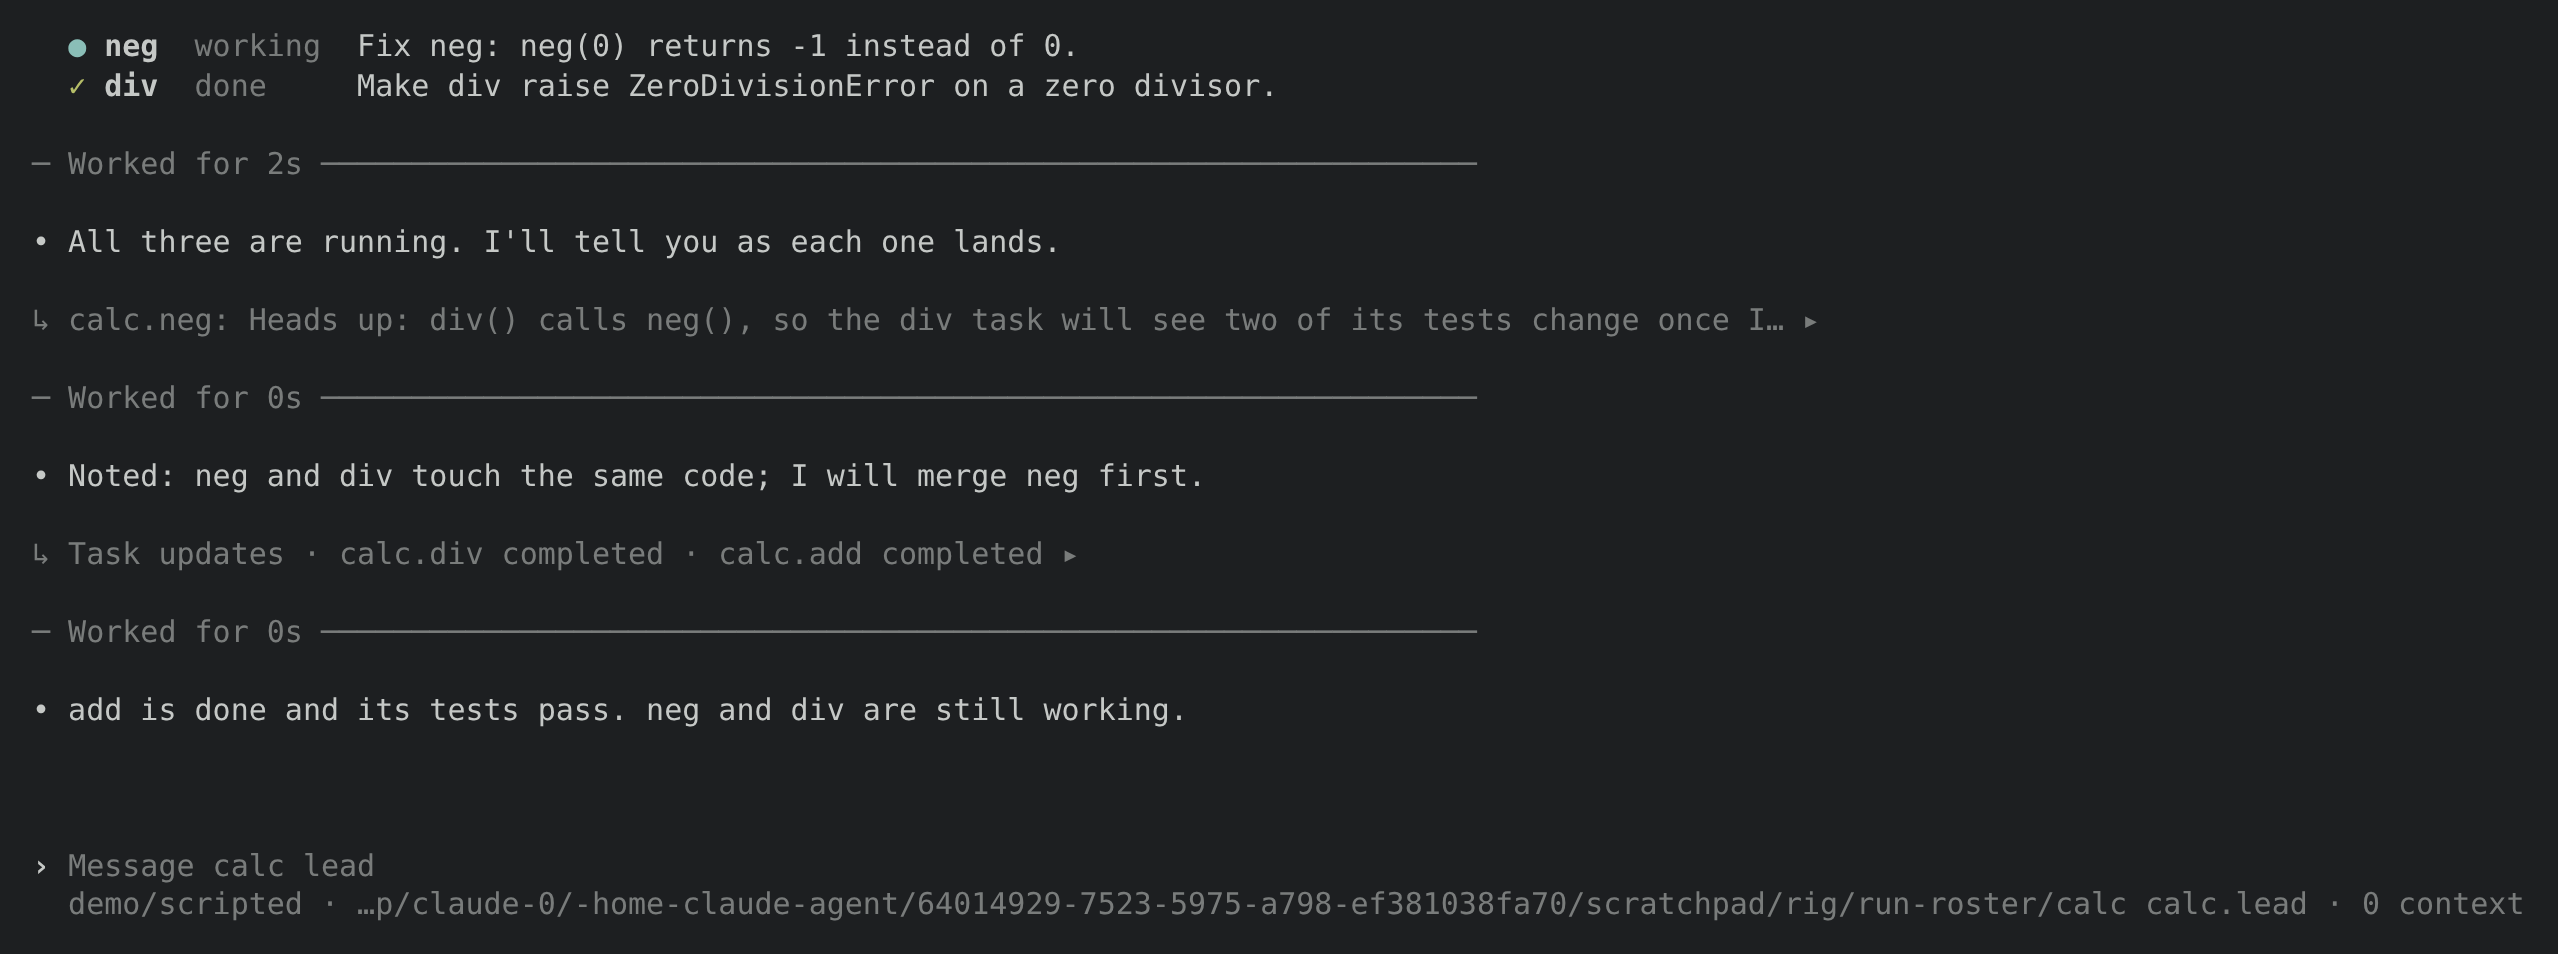
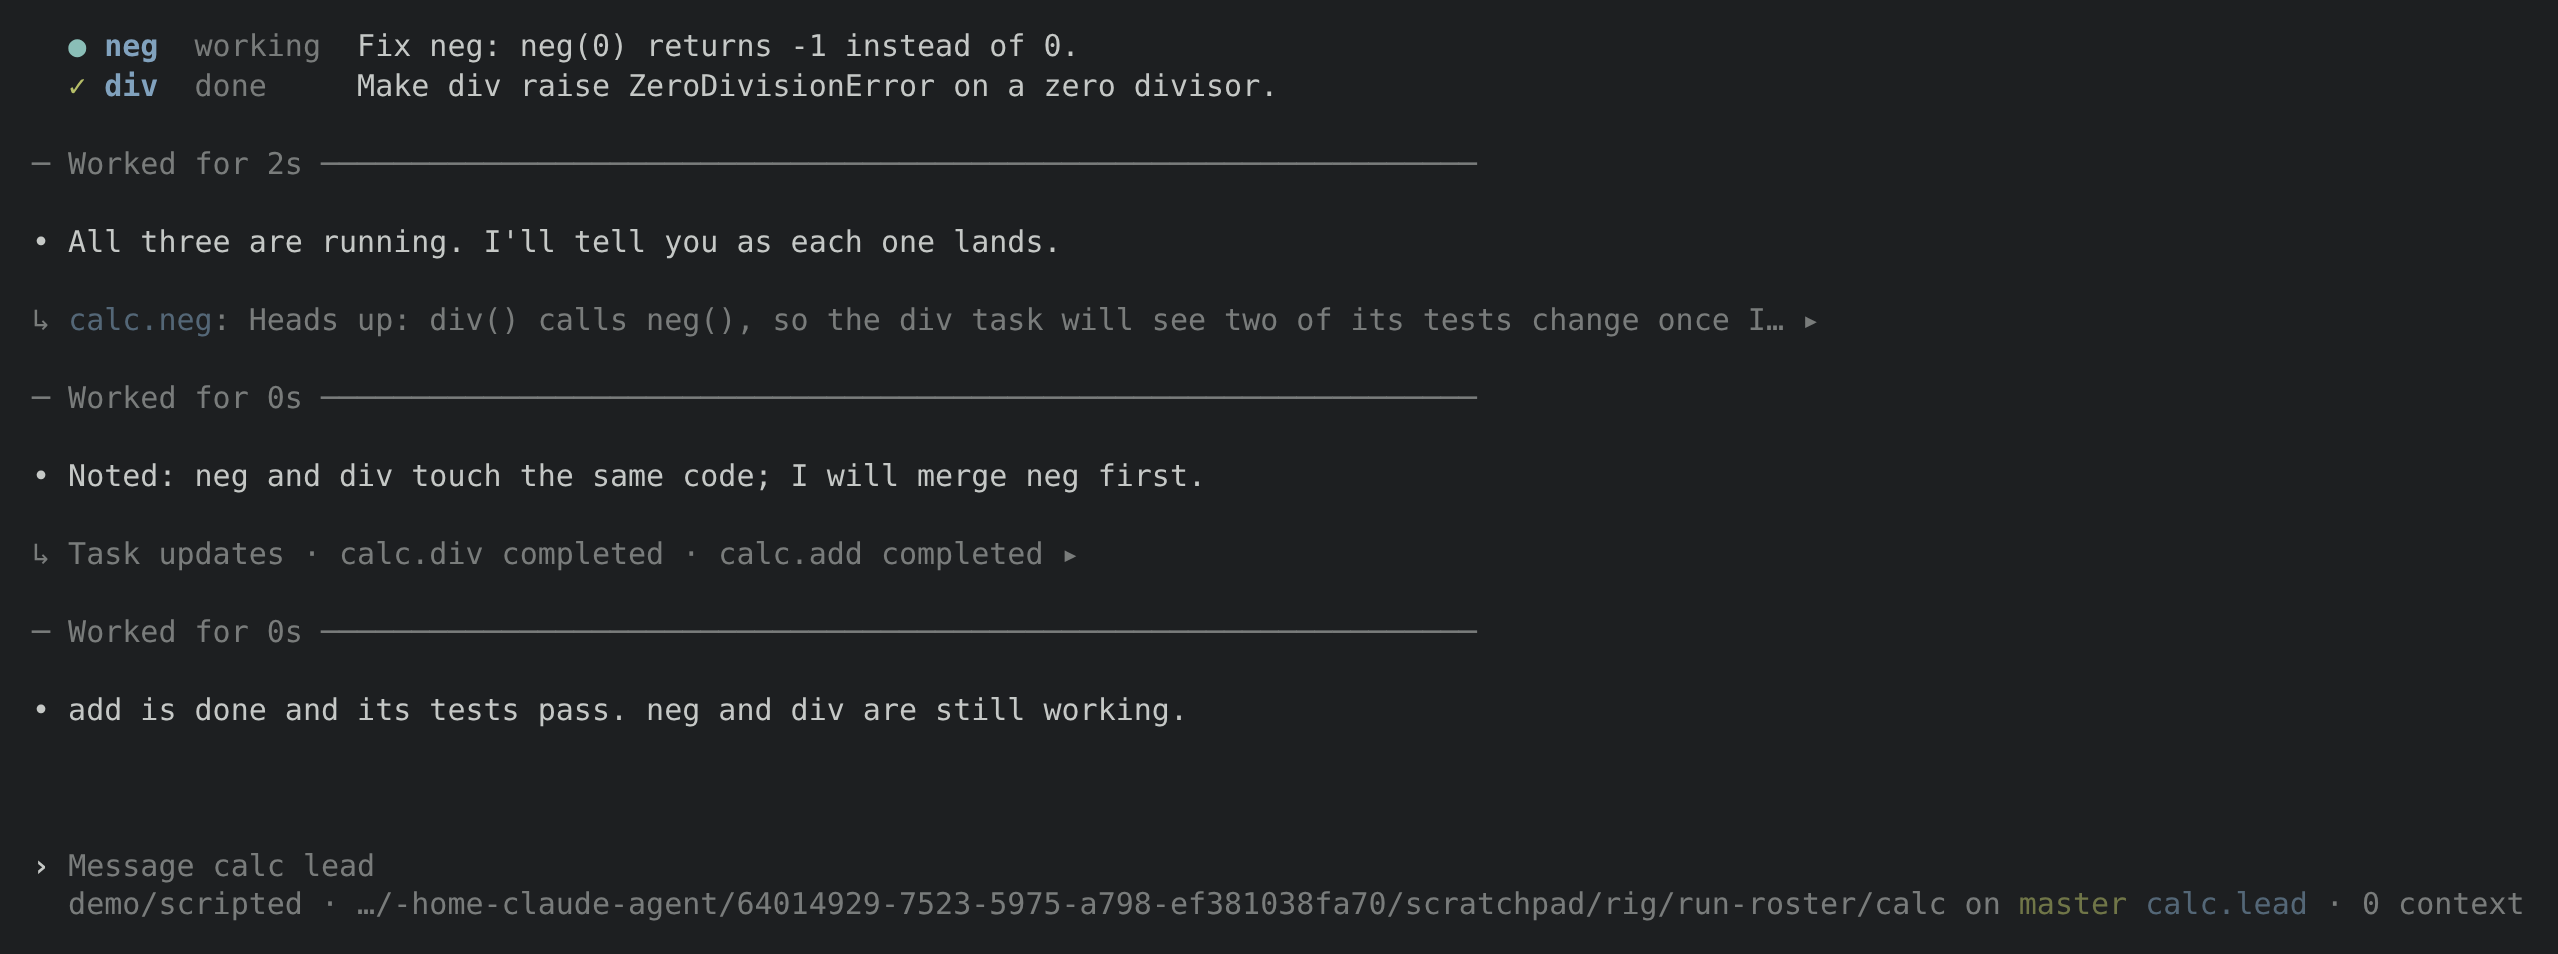
Sonny: a little color, one meaning each: agents blue, what worked green
Task names, who sent a message and the lead in the footer are blue; a
call that worked and the git branch are green. Only the terminal's 16
colors, so themes set the shades.

Claude-Session: https://claude.ai/code/session_013jkdGFoe3qjfmPo7oQpb2d

Changed region(s): [[0.1544, 0.9119, 0.8956, 0.9727], [0.0309, 0.0304, 0.0618, 0.1216], [0.0618, 0.3344, 0.0927, 0.3648]]

diff --git a/sonny/src/transcript.rs b/sonny/src/transcript.rs
@@ -1170,7 +1170,7 @@ pub fn relays(text: &str, from: Option<&str>) -> bool {
 /// row with `▾` and the whole message under it.
 pub fn relayed(text: &str, from: Option<&str>, open: bool, width: usize) -> Vec<Line<'static>> {
     if !open {
-        return relayed_shut(&relayed_head(text, from), width);
+        return relayed_shut(&relayed_head(text, from), from, width);
     }
     let head = match (news(text), from) {
         (Some(parts), _) => parts[0].clone(),
@@ -1205,9 +1205,20 @@ pub fn relayed_head(text: &str, from: Option<&str>) -> String {
 const RELAYED_HEAD: usize = 200;
 
 /// The shut row of words between agents, from [`relayed_head`].
-pub fn relayed_shut(head: &str, width: usize) -> Vec<Line<'static>> {
+pub fn relayed_shut(head: &str, from: Option<&str>, width: usize) -> Vec<Line<'static>> {
     let head = cut(&format!("↳ {head}"), width.saturating_sub(2));
-    vec![Line::from(format!("{head} ▸")).dim()]
+    // Who said it in the agents' color.
+    let mut spans = vec![Span::raw("↳ ")];
+    let rest = &head["↳ ".len()..];
+    match from.filter(|from| rest.starts_with(&format!("{from}:"))) {
+        Some(from) => {
+            spans.push(Span::raw(from.to_owned()).fg(Color::Blue));
+            spans.push(Span::raw(rest[from.len()..].to_owned()));
+        }
+        None => spans.push(Span::raw(rest.to_owned())),
+    }
+    spans.push(Span::raw(" ▸"));
+    vec![Line::from(spans).dim()]
 }
 
 /// The most lines of a prompt shown above its reply.
@@ -1644,7 +1655,12 @@ pub fn folded(
         })
         .dim(),
     ]);
-    let mut out = wrap(line, width, Span::raw("• "), Span::raw("    "));
+    let mut out = wrap(
+        line,
+        width,
+        Span::raw("• ").fg(Color::Green),
+        Span::raw("    "),
+    );
     if open {
         out.extend(calls.iter().flatten().cloned());
     }
@@ -1663,7 +1679,7 @@ fn drawn(
     let bullet = if failed {
         Span::raw("• ").fg(Color::Red)
     } else {
-        Span::raw("• ")
+        Span::raw("• ").fg(Color::Green)
     };
     let field = |key: &str| arguments[key].as_str().unwrap_or("").to_owned();
     let elbow = || Span::raw("  └ ").dim();
@@ -1790,7 +1806,7 @@ fn drawn(
                     let bullet = if failed && i + 1 == count {
                         Span::raw("• ").fg(Color::Red)
                     } else {
-                        Span::raw("• ")
+                        Span::raw("• ").fg(Color::Green)
                     };
                     let commands: Vec<&str> = ran
                         .iter()
@@ -1994,7 +2010,7 @@ fn said_lines(said: crate::calls::Said, width: usize) -> Vec<Line<'static>> {
     let bullet = if said.failed {
         Span::raw("• ").fg(Color::Red)
     } else {
-        Span::raw("• ")
+        Span::raw("• ").fg(Color::Green)
     };
     let mut spans = vec![Span::raw(said.verb).bold()];
     if !said.what.is_empty() {
@@ -2355,6 +2371,14 @@ mod tests {
 
     fn text(lines: &[Line]) -> Vec<String> {
         lines.iter().map(|l| l.to_string()).collect()
+    }
+
+    #[test]
+    fn who_sent_words_between_agents_shows_in_the_agents_color() {
+        let rows = relayed("Tests pass.", Some("calc.neg"), false, 80);
+        assert_eq!(text(&rows), ["↳ calc.neg: Tests pass. ▸"]);
+        let sender = rows[0].spans.iter().find(|s| s.content == "calc.neg");
+        assert_eq!(sender.and_then(|s| s.style.fg), Some(Color::Blue));
     }
 
     #[test]

diff --git a/sonny/src/main.rs b/sonny/src/main.rs
@@ -3224,7 +3224,7 @@ impl App {
         };
         match &relayed.text {
             Some(text) => transcript::relayed(text, relayed.from.as_deref(), true, self.prose()),
-            None => transcript::relayed_shut(&relayed.head, self.prose()),
+            None => transcript::relayed_shut(&relayed.head, relayed.from.as_deref(), self.prose()),
         }
     }
 
@@ -6859,12 +6859,26 @@ impl App {
         while folder.width() > room.saturating_sub(1) && !folder.is_empty() {
             folder = &folder[folder.chars().next().map_or(1, char::len_utf8)..];
         }
-        left.push_str(&format!(
-            " · {}{folder}{branch}",
-            if cut { "…" } else { "" }
-        ));
-        let fill = width.saturating_sub(left.width() + right.width());
-        Line::from(format!("{left}{}{right}", " ".repeat(fill))).dim()
+        let place = format!(" · {}{folder}", if cut { "…" } else { "" });
+        let fill =
+            width.saturating_sub(left.width() + place.width() + branch.width() + right.width());
+        // The branch in green, as shells show it; the agent's name in the
+        // agents' color.
+        let mut spans = vec![Span::raw(left), Span::raw(place)];
+        if let Some(name) = branch.strip_prefix(" on ") {
+            spans.push(Span::raw(" on "));
+            spans.push(Span::raw(name.to_owned()).fg(Color::Green));
+        }
+        spans.push(Span::raw(" ".repeat(fill)));
+        match right.rfind(&self.bot) {
+            Some(at) => {
+                spans.push(Span::raw(right[..at].to_owned()));
+                spans.push(Span::raw(self.bot.clone()).fg(Color::Blue));
+                spans.push(Span::raw(right[at + self.bot.len()..].to_owned()));
+            }
+            None => spans.push(Span::raw(right)),
+        }
+        Line::from(spans).dim()
     }
 }
 

diff --git a/sonny/src/started.rs b/sonny/src/started.rs
@@ -73,7 +73,7 @@ pub fn draw(tasks: &[Task], width: usize) -> Vec<(Line<'static>, Option<usize>)>
     };
     let mut out = vec![(
         Line::from(vec![
-            Span::raw("◆ ").fg(Color::Magenta),
+            Span::raw("◆ ").fg(Color::Blue),
             Span::raw(format!("Started {count}")).bold(),
             Span::raw(" · click one to open it").dim(),
         ]),
@@ -89,7 +89,9 @@ pub fn draw(tasks: &[Task], width: usize) -> Vec<(Line<'static>, Option<usize>)>
                 Span::raw("  "),
                 sign(&task.state),
                 Span::raw(" "),
-                Span::raw(format!("{:<names$}", task.name)).bold(),
+                Span::raw(format!("{:<names$}", task.name))
+                    .bold()
+                    .fg(Color::Blue),
                 Span::raw("  "),
                 Span::raw(format!("{:<states$}", task.state)).dim(),
                 Span::raw("  "),

diff --git a/sonny/README.md b/sonny/README.md
@@ -477,6 +477,12 @@ and Ctrl+] shows it again.
 
 ![Three tasks started together, each with what it does now](../docs/sonny/tasks-roster.png)
 
+Sonny keeps to the terminal's own 16 colors, so a theme sets their
+shades, and each means one thing: magenta is you (your `›`), blue the
+agents (task names, who sent a message, the lead in the footer), green
+what worked (a call's dot, the git branch), yellow what needs you, red
+what failed, and cyan code and work under way.
+
 ![The task calc.neg opened in the pane beside the lead's conversation](../docs/sonny/task-in-pane.png)
 
 Sonny owns the whole screen, as Codex does; there is no inline mode.
